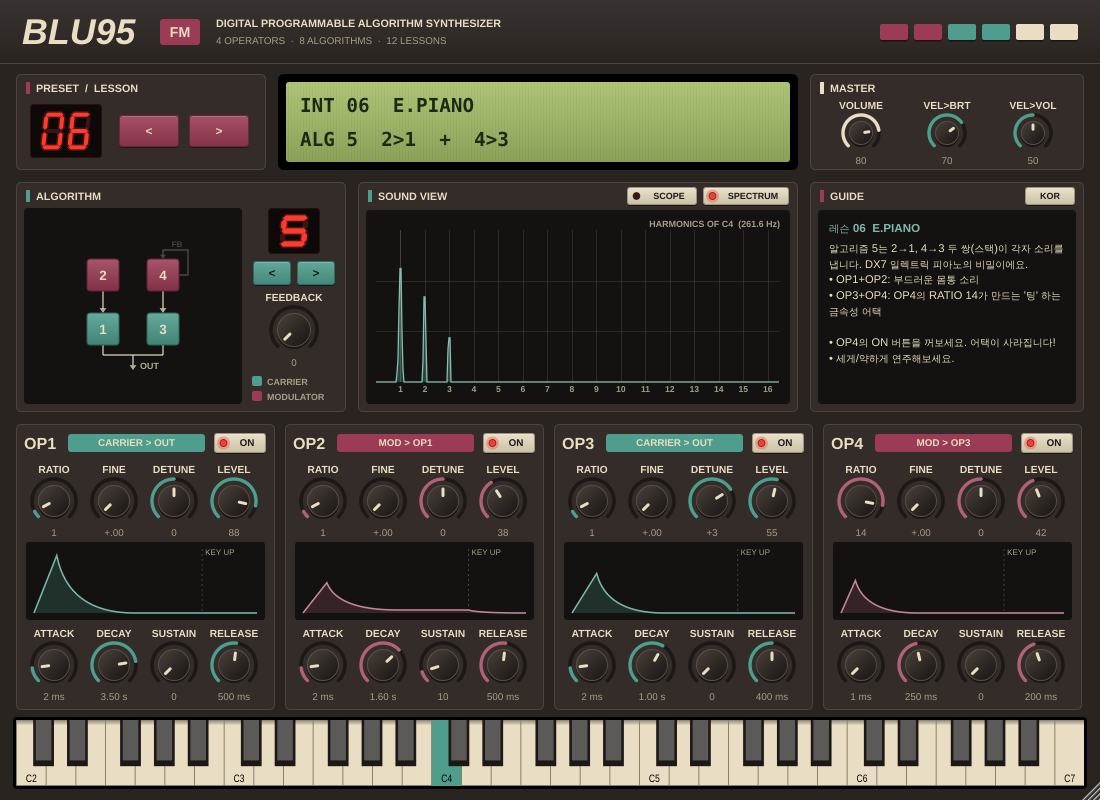
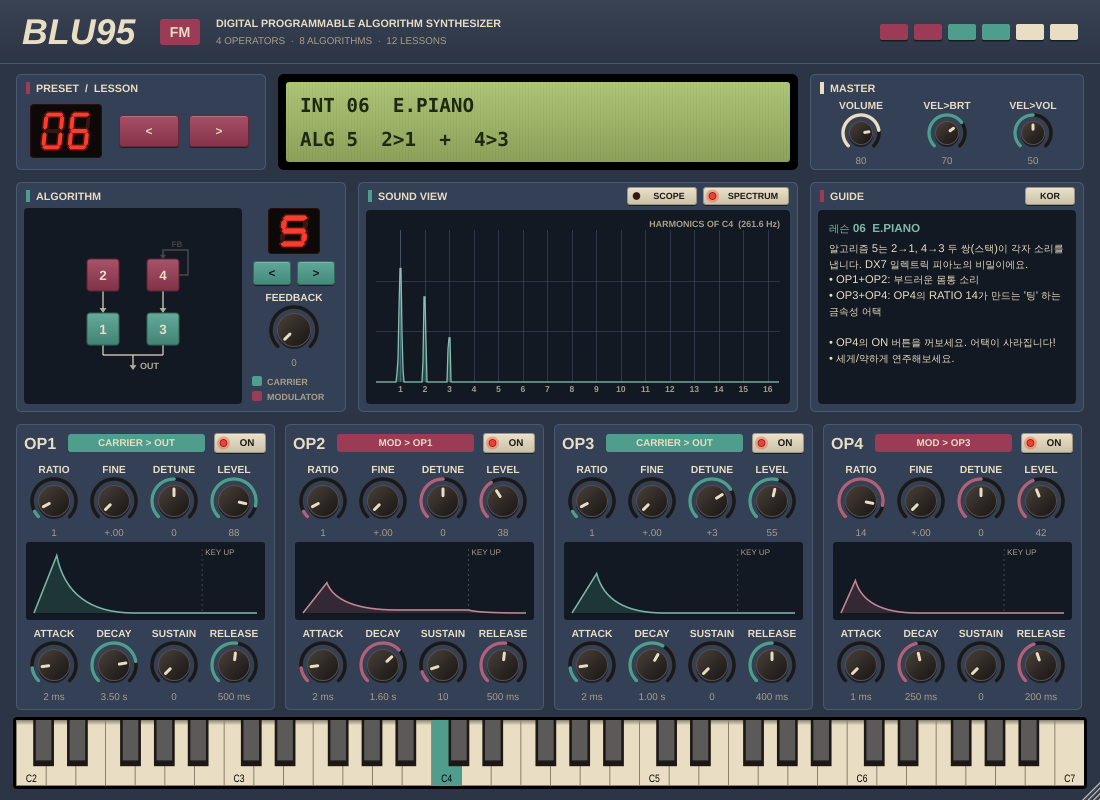
Switch the panel background to a toned-down slate navy
Only the body, section panels, divider lines and display backgrounds
change; membrane buttons, knobs, LCD and LEDs keep their DX7 colours.

Claude-Session: https://claude.ai/code/session_01DVBV8cm3L2vijLFWhjMkVc

diff --git a/Source/RetroLookAndFeel.h b/Source/RetroLookAndFeel.h
@@ -4,14 +4,14 @@
 
 namespace blu
 {
-/** Colours borrowed from the DX7 front panel: dark chocolate body,
+/** Colours borrowed from the DX7 front panel, on a toned-down slate navy body:
     membrane buttons in maroon, teal-green and cream, a green backlit LCD and a red LED. */
 namespace palette
 {
-    inline const juce::Colour body       { 0xff2a2421 };
+    inline const juce::Colour body       { 0xff2b3546 };
     inline const juce::Colour bodyDark   { 0xff1c1816 };
-    inline const juce::Colour section    { 0xff332c28 };
-    inline const juce::Colour line       { 0xff4e443c };
+    inline const juce::Colour section    { 0xff344055 };
+    inline const juce::Colour line       { 0xff4a5870 };
     inline const juce::Colour cream      { 0xffe9dec3 };
     inline const juce::Colour creamDim   { 0xffa89f8a };
     inline const juce::Colour maroon     { 0xff9b3b55 };
@@ -20,7 +20,7 @@ namespace palette
     inline const juce::Colour lcdText    { 0xff1d2912 };
     inline const juce::Colour ledOn      { 0xffff3b2e };
     inline const juce::Colour ledOff     { 0xff3a1512 };
-    inline const juce::Colour screen     { 0xff141210 };
+    inline const juce::Colour screen     { 0xff131922 };
 }
 
 juce::Font uiFont (float height, bool bold = true);

diff --git a/README.md b/README.md
@@ -2,7 +2,7 @@
 
 **FM 합성을 직접 만지면서 배우는 4-오퍼레이터 FM 신시사이저** (VST3 / AU / Standalone)
 
-DX7의 레트로한 패널 디자인에서 영감을 받았습니다: 짙은 초콜릿색 바디, 적갈색·청록색·크림색 멤브레인 버튼, 초록빛 백라이트 LCD, 빨간 7-세그먼트 LED.
+DX7의 레트로한 패널 디자인에서 영감을 받았습니다: 톤다운된 슬레이트 네이비 바디, 적갈색·청록색·크림색 멤브레인 버튼, 초록빛 백라이트 LCD, 빨간 7-세그먼트 LED.
 
 ![BLU95 FM screenshot](docs/screenshot.png)
 
